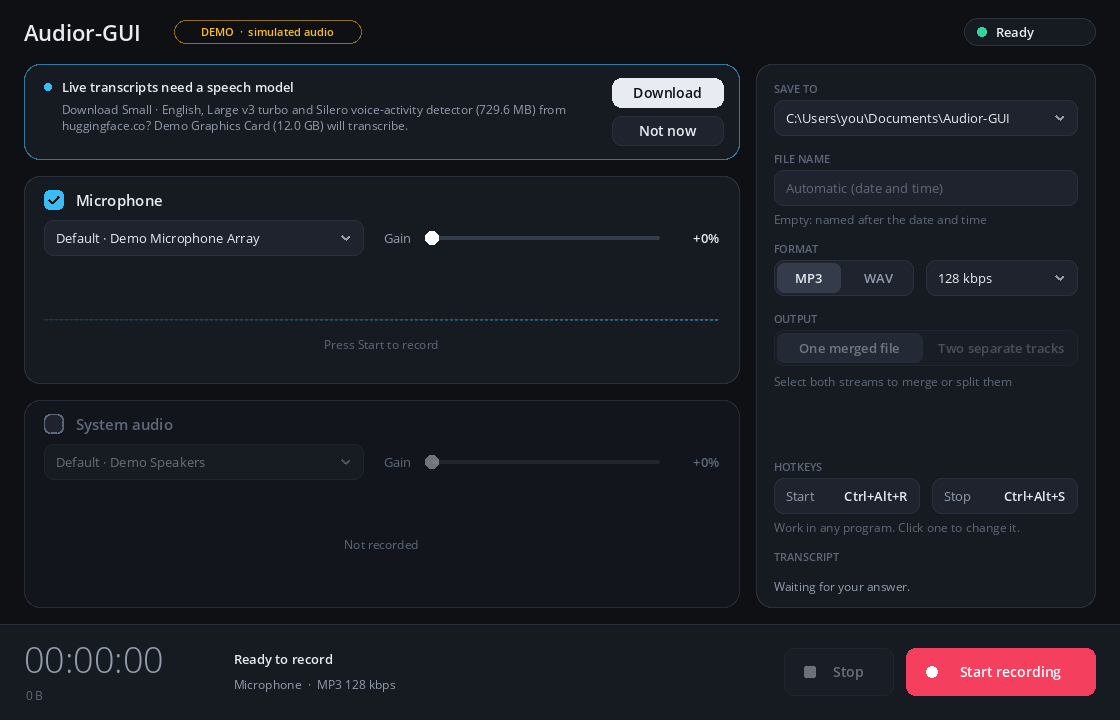
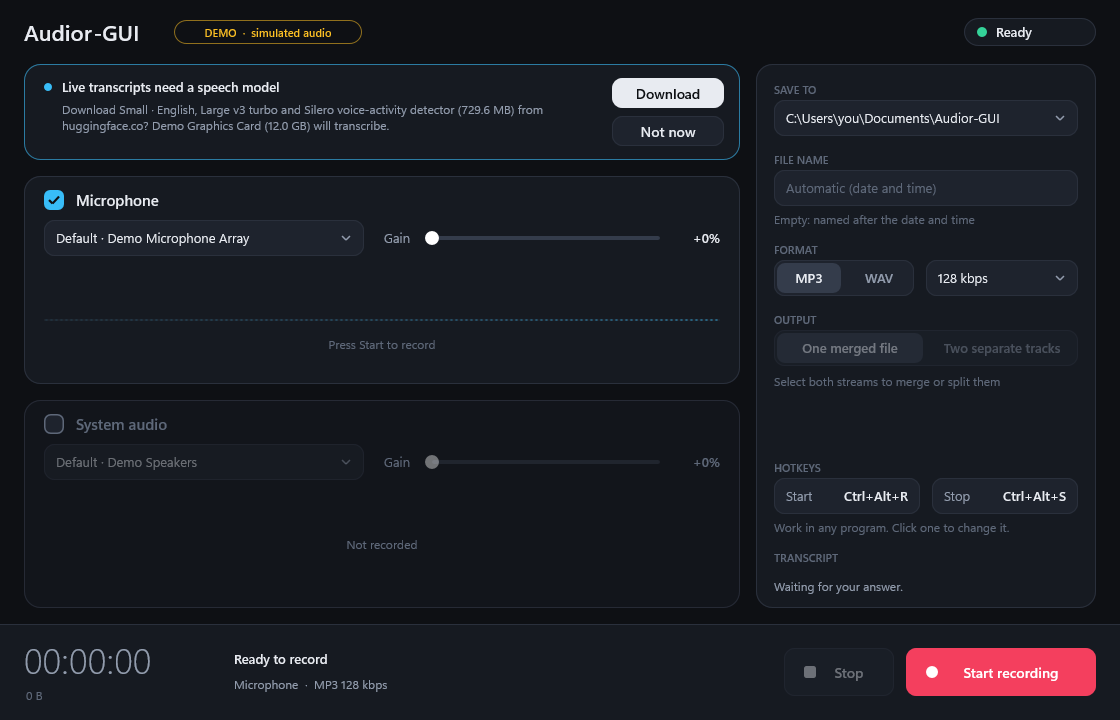
Fixes from the review of the start-up set-up; its pictures redrawn on Windows
Found by three reviews of PR 17 (set-up logic, the download program, the window and docs):

- The adapter scan stopped only at "no more adapters": any other DXGI error left a
  null adapter that was then used, ending the program (and a recording) from the
  set-up thread. It now ends at the first error.
- Nothing contained an exception on the set-up thread; one would have ended the
  program. It now ends the set-up with a message.
- A model that arrived during a recording that was started without one made that
  recording's pane show "Listening..." for good. A recording without a transcript
  now keeps none; the next one has it.
- The three setup-* pictures were drawn under Wine; they are redrawn with the real
  window on Windows, as the rule for documentation pictures asks.
- README: the redirect to the file server is mentioned, the settings sample has the
  modelDownload line; CLAUDE.md and screenshot.h no longer say the old things.

The other findings are written down in docs/LATER.md.

diff --git a/tests/test_recorder_controller.cpp b/tests/test_recorder_controller.cpp
@@ -358,11 +358,13 @@ TEST(Controller_ATranscriptFileThatWouldBeTooLongIsRefusedBeforeRecording)
     CHECK(rig.ctl.Start());
 }
 
-/* An engine without the helper or a model: the transcript switches are hidden, whatever the saved settings say. */
+/* An engine without the helper or a model (until `hears` is set): the transcript switches are hidden, whatever the
+ * saved settings say. */
 class DeafEngine : public SimulatedEngine {
 public:
     using SimulatedEngine::SimulatedEngine;
-    bool CanTranscribe() const override { return false; }
+    bool CanTranscribe() const override { return hears; }
+    bool hears = false;
 };
 
 TEST(Controller_AnEngineThatCannotTranscribeLeavesTheTranscriptSwitchesOutOfTheNames)
@@ -385,6 +387,22 @@ TEST(Controller_AnEngineThatCannotTranscribeLeavesTheTranscriptSwitchesOutOfTheN
     CHECK(ctl.Start());
     ctl.Stop();
     CHECK_EQ(ctl.LastOutcome().files[0], std::wstring(L"C:\\Rec\\a.mp3"));
+}
+
+TEST(Controller_AModelThatArrivesDuringARecordingIsForTheNextOne)
+{
+    LocalTime time;
+    time.year = 2026; time.month = 10; time.day = 10;
+    DeafEngine engine([] { return 0.0; });
+    RecorderController ctl(engine, [&time] { return time; }, [](const std::wstring &) { return false; });
+    ctl.Settings().outputDirectory = L"C:\\Rec";
+    ctl.Settings().transcribeMicrophone = true;                 /* saved, but there is nothing to transcribe with */
+    CHECK(ctl.Start());
+    engine.hears = true;
+    ctl.RefreshTranscription();                                 /* what the set-up does when its download ends */
+    CHECK(!ctl.ShowsTranscript(StreamId::Microphone));          /* this recording has no transcript: no pane that only listens */
+    ctl.Stop();
+    CHECK(ctl.ShowsTranscript(StreamId::Microphone));           /* the next one has */
 }
 
 TEST(Controller_TheSystemTranscriptsLongerNameCanBeTheOnlyOneOverTheLimit)

diff --git a/tests/test_transcription_setup.cpp b/tests/test_transcription_setup.cpp
@@ -2,6 +2,7 @@
 #include <atomic>
 #include <chrono>
 #include <functional>
+#include <stdexcept>
 #include <thread>
 #include <vector>
 
@@ -117,6 +118,19 @@ bool Asking(const SetupStatus &s) { return s.phase == SetupPhase::Asking; }
 bool Downloading(const SetupStatus &s) { return s.phase == SetupPhase::Downloading; }
 
 }  // namespace
+
+TEST(Setup_AnExceptionEndsTheSetUpWithAMessageNotTheProgram)
+{
+    World world;
+    TranscriptionSetup::Environment env = world.Env();
+    env.scan = []() -> HardwareProfile { throw std::runtime_error("a driver's exception"); };
+    TranscriptionSetup setup(std::move(env));
+    setup.Start();
+    SetupStatus s;
+    CHECK(WaitFor(setup, &s, Finished));
+    CHECK(s.phase == SetupPhase::Finished && s.result == SetupResult::Failed);
+    CHECK(world.downloads.empty());
+}
 
 TEST(Setup_AModelThatIsThereMeansNothingToAskAndTheCardIsNamed)
 {

diff --git a/src/engine/transcription_setup.cpp b/src/engine/transcription_setup.cpp
@@ -33,7 +33,16 @@ void TranscriptionSetup::Launch(bool forced)
         ++version_;
     }
     cancel_ = false;
-    thread_ = std::thread([this, forced] { Run(forced); });
+    thread_ = std::thread([this, forced] {
+        try {
+            Run(forced);
+        } catch (...) {                                 /* an out-of-memory, a driver's exception: the recording is not to end for it */
+            try {
+                Publish(FailedStatus(L"The set-up stopped", L"Something went wrong while looking at this PC. Recording is not affected."));
+            } catch (...) {
+            }
+        }
+    });
 }
 
 /* Only a run that has said its last word can be repeated. */

diff --git a/src/engine/hardware_scan.cpp b/src/engine/hardware_scan.cpp
@@ -39,7 +39,7 @@ HardwareProfile ScanHardware()
     if (FAILED(CreateDXGIFactory1(IID_PPV_ARGS(&factory))))
         return hw;
     ComPtr<IDXGIAdapter1> adapter;
-    for (UINT i = 0; factory->EnumAdapters1(i, adapter.ReleaseAndGetAddressOf()) != DXGI_ERROR_NOT_FOUND; ++i) {
+    for (UINT i = 0; SUCCEEDED(factory->EnumAdapters1(i, adapter.ReleaseAndGetAddressOf())); ++i) {      /* ends at NOT_FOUND, or at an error */
         DXGI_ADAPTER_DESC1 desc;
         if (FAILED(adapter->GetDesc1(&desc)) || (desc.Flags & DXGI_ADAPTER_FLAG_SOFTWARE) ||
             desc.VendorId == kMicrosoftVendor)

diff --git a/src/ui/screenshot.h b/src/ui/screenshot.h
@@ -12,7 +12,8 @@
  * saved, error, transcript (both live transcripts mid-sentence), catching-up (the same, but the transcription
  * has fallen behind), model (the multilingual model chosen, idle), named (settings changed), typing (a long
  * file name being edited), hotkeys (a shortcut box waiting for keys), hotkey-taken (a hotkey another program
- * already owns).
+ * already owns), and the start-up set-up's setup-scan, setup-ask, setup-download, setup-done, setup-failed and
+ * setup-declined.
  */
 #pragma once
 

diff --git a/src/core/recorder_controller.cpp b/src/core/recorder_controller.cpp
@@ -132,6 +132,8 @@ bool RecorderController::Start()
     }
 
     RecordingSettings run = settings_;
+    if (!engine_.CanTranscribe())                       /* no transcript in this recording: a model that arrives during it is for the next */
+        run.transcribeMicrophone = run.transcribeSystem = false;
     if (gpuUnusable_)                                   /* what the scan found out about this PC, not the user's choice */
         run.transcribeGpu = false;
     std::wstring error;

diff --git a/CLAUDE.md b/CLAUDE.md
@@ -66,7 +66,7 @@ WASAPI audio recorder. Windows only: C++17, Win32, Direct2D and DirectWrite.
 | Path | What |
 |------|------|
 | `src/core` | Logic with no Windows or UI headers: settings and their rules, the text of the settings file (`saved_settings`), the command line (`cli`), the hotkey rules (`hotkey`), the text-box editing model, formatting, waveform and transcript models, controller, the `IRecordingEngine` seam (audio as peak bins, live transcripts as `TranscriptEvent`s), `asr_protocol` (the byte stream between the recorder and its transcription helper, with a bounds-checked parser), and the start-up set-up of transcription: `setup_plan` (what a hardware scan decides: use the graphics card or not, which models to offer), `setup_status` (the notification's phases and words, and the `ISetupSource` the controller polls) and `fetch_protocol` (what `audior_fetch.exe` says, with a bounded line reader). |
-| `src/engine` | Engines behind that seam: `WasapiEngine` (the real one: `RecordingSession` with capture and writer threads, `WasapiCapture`, WAV and Media Foundation MP3 sinks; it transcribes when the helper and a model are in place) and `SimulatedEngine` (`--demo`, tests; it plays a scripted transcript). The session takes sources and sinks from factories, so it is tested with generated audio and in-memory files. Transcription: `SpeechDecimator` (48 kHz stereo to 16 kHz mono) feeds `TranscriptionHost`, which talks to the helper through an `IAsrTransport`, restarts it when it dies, changes to a smaller model when it cannot keep up (`core/lag_governor`) and never blocks or fails a capture thread; tested against a fake helper on in-memory pipes. `ProcessTransport` is the real transport (the helper in a Job object, below-normal priority, three inherited handles), `asr_helper` finds the helper and a model and checks them against the manifest and the models table (`core/asr_models`, `core/sha256`); the process tests run `run_tests.exe` itself as a fake helper (`tests/fake_asr_helper`). Start-up set-up: `hardware_scan` (DXGI adapters, Vulkan loader), `TranscriptionSetup` (a thread: scan, plan, ask, download, finish; all its dependencies are injected functions, so it is tested with made-up ones), `ModelInstaller` (runs the download program, checks size and SHA-256, moves the file into place, leaves no `.part`; tested against `run_tests.exe` as a fake download program, `tests/fake_fetch`) and `system_setup` (the real wiring, plus the remembered "not now" in `preferences`). |
+| `src/engine` | Engines behind that seam: `WasapiEngine` (the real one: `RecordingSession` with capture and writer threads, `WasapiCapture`, WAV and Media Foundation MP3 sinks; it transcribes when the helper and a model are in place) and `SimulatedEngine` (`--demo`, tests; it plays a scripted transcript). The session takes sources and sinks from factories, so it is tested with generated audio and in-memory files. Transcription: `SpeechDecimator` (48 kHz stereo to 16 kHz mono) feeds `TranscriptionHost`, which talks to the helper through an `IAsrTransport`, restarts it when it dies, changes to a smaller model when it cannot keep up (`core/lag_governor`) and never blocks or fails a capture thread; tested against a fake helper on in-memory pipes. `ProcessTransport` is the real transport (the helper in a Job object, below-normal priority, three inherited handles), `asr_helper` finds the helper and a model and checks them against the manifest and the models table (`core/asr_models`, `core/sha256`); the process tests run `run_tests.exe` itself as a fake helper (`tests/fake_asr_helper`). Start-up set-up: `hardware_scan` (DXGI adapters, Vulkan loader), `TranscriptionSetup` (a thread: scan, plan, ask, download, finish; all its dependencies are injected functions, so it is tested with made-up ones), `ModelInstaller` (runs the download program, checks size and SHA-256, moves the file into place, leaves no `.part`; tested against `run_tests.exe` as a fake download program, `tests/fake_fetch`) and `system_setup` (the real wiring; the remembered "not now" is a line of the settings file). |
 | `src/fetch` | The download program `audior_fetch.exe` (WinHTTP; see "Hard constraints"). `tests/test_real_fetcher.cpp` runs the real one for what it refuses before it touches the network. |
 | `src/ui` | Win32 + Direct2D window and widgets, the tray icon, the system-wide hotkeys. |
 | `src/asr`, `third_party` | The transcription helper `audior_asr.exe`: protocol loop, phrase cutting (`core/utterance_tracker`), decode scheduling (`core/decode_queue`) and whisper.cpp behind `WhisperDecoder`; whisper.cpp is a trimmed, unedited copy (see `third_party/README.md`). Every library and model licence is in `THIRD-PARTY-NOTICES.md`. Checked by hand with `audior_asr.exe --file x.wav --model m --realtime`, and by `tests/test_real_helper.cpp` (skipped without the helper and a model). |

diff --git a/docs/LATER.md b/docs/LATER.md
@@ -98,3 +98,48 @@ None of these loses a recording; each is worth doing when it starts to matter.
   Nothing makes a new `RecordingSettings` field a field of the settings file: add a test
   that fails on a field it does not know. `hardware_tests.exe --only T15` records with
   the first installed model, so a slow PC can fail it for speed, not for a bug.
+
+## Found in the review of the start-up set-up and the download
+
+No blocker; each is worth doing when it starts to matter.
+
+- **A download during a recording.** The fetcher runs at below-normal CPU priority, but its disk
+  priority is normal, and the SHA-256 pass and the move run at normal priority: on one slow disk
+  they can stall the recording's writer (its ring is 8 s). The free-space check (64 MiB spare) looks
+  at the models folder's drive, not at what the recording needs. Background I/O priority for the
+  fetcher and the hash, or holding the install while a recording runs, would cover it.
+- **A partial install.** The small model is fetched first: cancelling or failing during the large
+  one leaves it installed, but the notification still says "Live transcripts stay off", "Try again"
+  finds nothing missing and says "ready", and the README's "leaves nothing behind" is not true of
+  the finished files. A crash or End Task during a download leaves its `.part` (up to about
+  550 MiB) until the next install of that file; sweep `*.part` of the table at start.
+- **The graphics card.** The 4 GiB rule is an exact `>=` (a "4 GB" card often reports a little
+  less) and a 32-bit program is only told "4 GiB less a byte" at most; the Vulkan judgement is
+  "the loader is in System32" (a loader next to the helper is not seen, one for an old card is),
+  and virtual adapters other than Microsoft's (VMware, VirtualBox) count as cards. The "ready"
+  text names the card even when `--transcribe-cpu` or the GPU switch says otherwise, and a PC
+  without a usable card gets a disabled GPU switch without an explanation once the banner is gone.
+  `ScanHardware` has no stop check, so closing the window waits for a slow driver.
+- **Installed means the right size.** A model of the right size but wrong content (a power loss
+  after the rename: the fetcher and the move do not flush) counts as installed, is never offered
+  again, and fails its hash when a recording starts. Delete or re-offer a model that fails its hash.
+- **The banner.** At the smallest width (900 DIP) long texts are cut without an ellipsis (the
+  no-Vulkan sentence, "(3 of 3)" in the title); its height is not part of `ExtraMinHeight`, so a
+  recording with the banner up has about two lines of transcript, and when it appears or goes
+  after 10 s the cards move under the pointer. Every poll (4 a second while it moves) does a full
+  `Refresh` and redraws the whole window. The tray icon is restored after an Explorer restart with
+  the flags of the last call (`TrayIcon::Restore`), and the one balloon for a waiting question can
+  be lost to Focus Assist: a tooltip suffix such as "needs your answer" would help.
+- **The download program.** Redirects may go to any https host and port, and WinHTTP's automatic
+  logon stays on (follow redirects by hand and check each host, or use the high logon level). It is
+  started with the default DLL search and no process mitigations (`/DEPENDENTLOADFLAG`, block
+  non-Microsoft binaries), runs with the recorder's full token, and its hash is checked without
+  holding the file open until `CreateProcess` returns. Its path rule is "a full path ending in
+  `.part`": `\\?\` paths, `..` and `:stream` names pass, and a reparse point at the `.part` is
+  followed. A verified file is thrown away after one failed move (retry for a second or two), and
+  the import allowlist of the one program with the network is the recorder's list plus `winhttp`.
+- **"Not now"** is saved with the other settings (at a recording start, a hotkey change and exit):
+  a crash loses it, and where the program folder cannot be written the offer returns at every start.
+  `RememberSettings` copying the flag is not covered by a test; nor is the real DXGI call
+  (`ProfileFromDesc` could be pulled out and tested).
+

diff --git a/README.md b/README.md
@@ -66,7 +66,8 @@ installed but no model is, the program asks whether to download one; if you decl
 nothing is ever sent and transcription simply is not offered. The download is done by
 a separate small program, `audior_fetch.exe`, so that the recorder itself stays free of
 networking code. It uses only Windows' own WinHTTP; asks `huggingface.co` over HTTPS
-(which sends it on to the CDN that serves the file) and no other address; creates one
+(which sends it on to the CDN that serves the file, whose address changes: a firewall has to allow the
+redirect too) and no other address of its own choosing; creates one
 new `.part` file and writes nothing else; and what it brings is checked by the recorder
 against the size and SHA-256 published for that model before it is used, so a file from
 anywhere else would simply be refused. Delete `audior_fetch.exe` and the program cannot download anything.
@@ -326,6 +327,7 @@ transcribeLanguage=auto      auto or en
 transcribeGpu=on
 startHotkey=Ctrl+Alt+R
 stopHotkey=Ctrl+Alt+S
+modelDownload=ask            ask or declined: declined once you press Not now to the offer to download a model
 ```
 
 ## How a recording behaves
